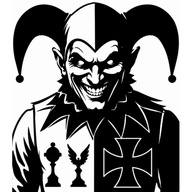
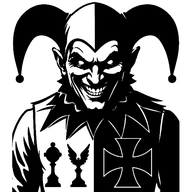
Corrige ícone pequeno da notificação no Android: o badge precisa ser transparente (só o traço preto, sem fundo sólido) pra o Android conseguir 'recortar' a forma certinho — o fundo branco anterior virava um blob sem sentido, por isso não aparecia nada. Ícone grande continua sendo o mascote original

diff --git a/index.html b/index.html
@@ -2204,7 +2204,7 @@ function ativarOuvintePrimeiroPlano(){
       avisar('🔔 '+titulo+': '+corpo,true,6000);
       if(Notification.permission==='granted'&&navigator.serviceWorker){
         navigator.serviceWorker.getRegistration().then(reg=>{
-          if(reg)reg.showNotification(titulo,{body:corpo,icon:'/icons/icon-192.png',badge:'/icons/icon-192.png',data:{url:payload.data?.url||'/'}});
+          if(reg)reg.showNotification(titulo,{body:corpo,icon:'/icons/icon-192.png',badge:'/icons/icon-notif-96.png',data:{url:payload.data?.url||'/'}});
         });
       }
     });

diff --git a/sw.js b/sw.js
@@ -28,7 +28,7 @@ messaging.onBackgroundMessage((payload) => {
   self.registration.showNotification(titulo, {
     body: corpo,
     icon: '/icons/icon-192.png',
-    badge: '/icons/icon-192.png',
+    badge: '/icons/icon-notif-96.png',
     data: { url: dados.url || '/' }
   });
 });
